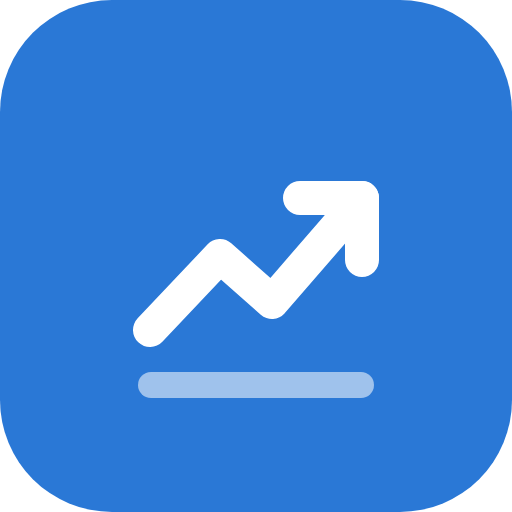
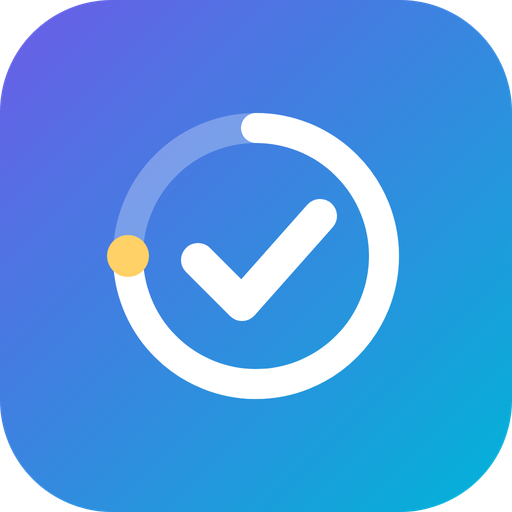
Android: виджеты и окошко для задачи и заметки, ярлыки, новый значок, подсказка о новой версии; подключение одной ссылкой

diff --git a/index.html b/index.html
@@ -938,14 +938,21 @@ const LS_KEY='moyplan.finance.v1', UI_KEY='moyplan.ui.v1', RC_KEY='moyplan.remot
    Копия данных лежит на устройстве: приложение открывается и сохраняет правки без интернета,
    а в таблицу они уходят, когда связь появится. */
 const GAS_URL_RE=/^https:\/\/script\.google\.com\/(a\/[^\/]+\/)?macros\/s\/[\w-]+\/(exec|dev)$/;
-(function(){ const m=/^#connect=([A-Za-z0-9+\/=_-]+)$/.exec(location.hash); if(!m) return;
-  try{ const [url,key]=atob(m[1].replace(/-/g,'+').replace(/_/g,'/')).split('|');
-    if(GAS_URL_RE.test(url)&&key) localStorage.setItem(RC_KEY,JSON.stringify({url,key})); }catch(e){}
+// «Ссылка для другого устройства»: …#connect=<base64 от «ссылка|ключ»>
+function parseConnect(s){ const m=/#connect=([A-Za-z0-9+\/=_-]+)/.exec(String(s||'')); if(!m) return null;
+  try{ const [url,key]=atob(m[1].replace(/-/g,'+').replace(/_/g,'/')).split('|'); return GAS_URL_RE.test(url)&&key?{url,key}:null; }catch(e){ return null; } }
+(function(){ if(!/^#connect=/.test(location.hash)) return; const rc=parseConnect(location.hash);
+  if(rc) try{ localStorage.setItem(RC_KEY,JSON.stringify(rc)); }catch(e){}
   history.replaceState(null,'',location.pathname+location.search); })();
 let REMOTE=null; if(!IS_GAS){ try{ const r=JSON.parse(localStorage.getItem(RC_KEY)||'null'); if(r&&GAS_URL_RE.test(r.url)&&r.key) REMOTE=r; }catch(e){} }
 // ярлык на значке приложения: ?action=task|expense|habit|note
 let LAUNCH=new URLSearchParams(location.search).get('action');
 if(LAUNCH) history.replaceState(null,'',location.pathname);
+/* Приложение для Android (обёртка Capacitor): window.MoyplanNative — виджеты, ярлыки, номер сборки.
+   В браузере его нет. Страница внутри приложения живёт на https://localhost, поэтому ссылки — на сайт. */
+const NATIVE=window.MoyplanNative||null;
+const SITE='https://tromb17.github.io/pep-app/';
+if(!LAUNCH&&NATIVE) try{ LAUNCH=NATIVE.takeAction()||null; }catch(e){}
 /* Вызов функции скрипта: в Google-версии — google.script.run, в отдельной — запрос по ссылке. */
 function server(fn,arg){
   if(IS_GAS) return new Promise((res,rej)=>google.script.run.withSuccessHandler(res).withFailureHandler(rej)[fn](arg));
@@ -1165,22 +1172,68 @@ window.addEventListener('online',()=>{ if(!REMOTE) return; if(isDirty()) flush()
 document.addEventListener('visibilitychange',()=>{ if(!REMOTE) return;
   if(document.hidden){ keepLocal(); if(isDirty()) flush(); }
   else if(isDirty()) flush(); else if(Date.now()-lastPull>120000) pullRemote(); });
+/* Окошко из виджета (Android) копит задачи и заметки в телефоне. Забираем их в план,
+   когда данные свежие (сразу после загрузки из таблицы), и только потом подтверждаем телефону.
+   ID записи приходит из телефона — повторно одно и то же не добавится. */
+const QUICK_FOLDER='Быстрые заметки';
+function inboxItems(){ if(!NATIVE) return []; try{ const a=JSON.parse(NATIVE.inbox()||'[]'); return Array.isArray(a)?a:[]; }catch(e){ return []; } }
+function noteTitleFrom(text){
+  const line=String(text).trim().split('\n')[0].trim(); if(line.length<=40) return line;
+  const cut=line.slice(0,40), sp=cut.lastIndexOf(' ');
+  return (sp>20?cut.slice(0,sp):cut).replace(/[\s,.;:!?—–-]+$/,'')+'…';
+}
+function applyInbox(){
+  if(!S||!NATIVE||!canSave||!document.getElementById('sheet').hidden) return;
+  const items=inboxItems(); if(!items.length) return;
+  const keys=new Set(), seen=[], isDay=v=>/^\d{4}-\d{2}-\d{2}$/.test(v||''); let nt=0, nn=0;
+  items.forEach(it=>{ if(!it||!it.id) return; seen.push(it.id); const text=String(it.text||'').trim(); if(!text) return;
+    if(it.type==='note'){ if(S.notes.some(n=>n.id===it.id)) return;
+      let f=S.noteFolders.find(x=>x.name===QUICK_FOLDER); if(!f){ f={id:uid(),name:QUICK_FOLDER}; S.noteFolders.push(f); keys.add('noteFolders'); }
+      S.notes.push({id:it.id,name:noteTitleFrom(text),body:esc(text).replace(/\n/g,'<br>'),pinned:false,updated:new Date(+it.at||Date.now()).toISOString(),folder:f.id,book:''});
+      keys.add('notes'); nn++; }
+    else { if(S.tasks.some(t=>t.id===it.id)) return;
+      const t=newTask(text); t.id=it.id; t.due=isDay(it.due)?it.due:''; if(isDay(it.created)) t.created=it.created;
+      S.tasks.push(t); keys.add('tasks'); nt++; } });
+  if(keys.size){ persist(...keys); if(REMOTE) keepLocal(); render(); }
+  try{ NATIVE.ack(JSON.stringify(seen)); }catch(e){}
+  if(nt||nn) toast('Из виджета: '+[nt?nt+' '+plural(nt,'задача','задачи','задач'):'',nn?nn+' '+plural(nn,'заметка','заметки','заметок'):''].filter(Boolean).join(', '));
+}
+// вернулись в приложение, а в окошке добавили что-то новое — сперва свежие данные, потом запись
+document.addEventListener('visibilitychange',()=>{ if(document.hidden||!NATIVE||!inboxItems().length) return;
+  if(REMOTE&&!isDirty()&&!saving){ if(Date.now()-lastPull<=120000) pullRemote(); } else applyInbox(); });
+// ярлык «Трата» / «Привычки», когда приложение уже открыто
+window.moyplanAction=()=>{ let a=null; try{ a=NATIVE&&NATIVE.takeAction(); }catch(e){} if(a&&S) launch(a); };
+
+/* Android: вышла ли новая сборка. Выпуски — в открытом репозитории pep-app (тег apk-<номер сборки>).
+   Пока не обновились, напоминаем при каждом запуске; иначе проверяем раз в 6 часов. */
+const APK_API='https://api.github.com/repos/tromb17/pep-app/releases/latest';
+function checkApk(force){
+  if(!NATIVE) return; let last=0; try{ last=+localStorage.getItem('moyplan.apkcheck')||0; }catch(e){}
+  if(!force&&Date.now()-last<6*3600e3) return;
+  fetch(APK_API,{cache:'no-store'}).then(r=>r.ok?r.json():null).then(j=>{
+    const n=j?+((/^apk-(\d+)$/.exec(j.tag_name||'')||[])[1]||0):0, have=+NATIVE.build()||0, a=j&&(j.assets||[]).find(x=>/\.apk$/i.test(x.name));
+    if(n>have&&a){ toast('Вышла новая версия приложения: 1.'+n,{label:'Скачать',fn:()=>NATIVE.openUrl(a.browser_download_url)}); return; }
+    try{ localStorage.setItem('moyplan.apkcheck',String(Date.now())); }catch(e){}
+    if(force) toast(j?'У вас последняя версия':'Не удалось проверить — нет связи с GitHub');
+  }).catch(()=>{ if(force) toast('Не удалось проверить — нет связи с GitHub'); });
+}
+
 /* Свежие данные из таблицы. Пока здесь есть неотправленные правки или открыто окно — своё не затираем. */
 function pullRemote(){
   if(!REMOTE) return Promise.resolve();
   return server('loadState').then(json=>{
     lastPull=Date.now();
-    if(isDirty()||saving) return;
+    if(isDirty()||saving){ applyInbox(); return; }
     if(S&&!document.getElementById('sheet').hidden){ setTimeout(pullRemote,5000); return; }
     let d=null; try{ d=json?JSON.parse(json):null; }catch(e){}
     canSave=true;
     if(d){ const [o,mig]=normalize(d), same=S&&JSON.stringify(o)===JSON.stringify(S); S=o; keepLocal();
-      setSync('ok','Загружено из Google Таблицы'); if(!same) render(); if(mig) persist(); }
+      setSync('ok','Загружено из Google Таблицы'); if(!same) render(); if(mig) persist(); applyInbox(); }
     else { if(!S) S=normalize(DEFAULT_DATA)[0]; render(); persist(); toast('Таблица была пустой — отправил в неё данные с этого устройства'); }
   }, err=>{
     if(!S){ canSave=false; S=normalize(DEFAULT_DATA)[0]; render();
       setSync('err','Нет связи с таблицей — правки не сохранятся'); toast('Не удалось загрузить: '+errText(err)); }
-    else setSync('pending','Нет связи с таблицей — работаю с копией в телефоне');
+    else { setSync('pending','Нет связи с таблицей — работаю с копией в телефоне'); applyInbox(); }
   });
 }
 
@@ -1203,7 +1256,7 @@ function boot(){
     else pullRemote();
   } else {
     let d=null; try{ const s=localStorage.getItem(LS_KEY); d=s?JSON.parse(s):null; }catch(e){}
-    const [o,mig]=normalize(d||DEFAULT_DATA); S=o; setSync('ok',d?'Данные из этого браузера':'Новый план'); render(); if(d&&mig) persist();
+    const [o,mig]=normalize(d||DEFAULT_DATA); S=o; setSync('ok',d?'Данные из этого браузера':'Новый план'); render(); if(d&&mig) persist(); applyInbox();
   }
 }
 
@@ -3462,12 +3515,13 @@ function storageBox(){
   if(REMOTE) return `<div class="field"><label>Где хранятся данные</label><div class="hint" style="margin:0">В Google Таблице через скрипт. Копия лежит на этом устройстве: без интернета приложение работает, правки уйдут в таблицу, когда появится связь.</div>
     <div class="actions" style="margin-top:6px"><button class="btn small" data-act="rcPull">Обновить из таблицы</button><button class="btn small" data-act="rcLink">Ссылка для другого устройства</button><span class="sp"></span><button class="btn small danger" data-act="rcOff">Отключить</button></div></div>`;
   return `<div class="field"><label>Где хранятся данные</label><div class="hint" style="margin:0">Сейчас — только в этом браузере. Подключите Google Таблицу, чтобы данные были на всех устройствах (см. инструкцию).</div></div>
-    <div class="field"><label>Ссылка на скрипт</label><input id="rcUrl" inputmode="url" autocomplete="off" spellcheck="false" placeholder="https://script.google.com/macros/s/…/exec"></div>
+    <div class="field"><label>Ссылка на скрипт</label><input id="rcUrl" inputmode="url" autocomplete="off" spellcheck="false" placeholder="https://script.google.com/macros/s/…/exec"><div class="hint" style="margin:4px 0 0">Или вставьте сюда «Ссылку для другого устройства» — ключ тогда не нужен.</div></div>
     <div class="field"><label>Ключ доступа</label><input id="rcKey" autocomplete="off" spellcheck="false" placeholder="из журнала функции createApiKey"></div>
     <div class="actions" style="margin-top:0"><button class="btn small primary" data-act="rcConnect">Подключить таблицу</button></div>`;
 }
 async function rcConnect(){
-  const url=(document.getElementById('rcUrl').value||'').trim(), key=(document.getElementById('rcKey').value||'').trim();
+  let url=(document.getElementById('rcUrl').value||'').trim(), key=(document.getElementById('rcKey').value||'').trim();
+  const rc=parseConnect(url); if(rc){ url=rc.url; key=rc.key; }
   if(!GAS_URL_RE.test(url)){ toast('Нужна ссылка вида https://script.google.com/macros/s/…/exec'); return; }
   if(key.length<20){ toast('Ключ слишком короткий — скопируйте его целиком'); return; }
   toast('Проверяю связь…'); server.rc={url,key};
@@ -3486,6 +3540,7 @@ function openSettings(){
     ${storageBox()}
     <div class="field"><label>Резервная копия (JSON)</label><textarea id="jsonBox" spellcheck="false" placeholder="Нажмите «Выгрузить» или вставьте сюда копию и нажмите «Загрузить»"></textarea></div>
     <div class="actions" style="margin-top:0"><button class="btn small" data-act="export">Выгрузить</button><button class="btn small" data-act="copy">Скопировать</button><button class="btn small" data-act="import">Загрузить</button></div>
+    ${NATIVE?`<div class="field"><label>Приложение</label><div class="actions" style="margin:0"><span class="hint" style="margin:0">Версия 1.${esc(String(NATIVE.build()))}</span><span class="sp"></span><button class="btn small" data-act="apkCheck">Проверить обновления</button></div></div>`:''}
     <div class="field"><label>Тема</label><div class="seg">${[['','Как в системе'],['light','Светлая'],['dark','Тёмная']].map(([v,l])=>`<button class="${(document.documentElement.dataset.theme||'')===v?'on':''}" data-act="theme" data-v="${v}">${l}</button>`).join('')}</div></div>
     </div><div class="actions"><span class="sp"></span><button class="btn primary" data-act="sheetClose">Готово</button></div>`);
 }
@@ -4019,8 +4074,9 @@ document.addEventListener('click',e=>{
     if(!d||!Array.isArray(d.items)){ toast('В копии нет списка статей'); return; }
     if(!confirm('Заменить все текущие данные копией?')) return; S=normalize(d)[0]; closeSheet(); persist(); render(); toast('Загружено'); }
   else if(a==='rcConnect'){ rcConnect(); }
+  else if(a==='apkCheck'){ checkApk(true); }
   else if(a==='rcPull'){ if(isDirty()){ flush(); toast('Сначала отправляю свои правки'); return; } closeSheet(); setSync('pending','Загружаю из таблицы…'); pullRemote().then(()=>toast('Обновлено')); }
-  else if(a==='rcLink'){ const link=location.origin+location.pathname+'#connect='+btoa(REMOTE.url+'|'+REMOTE.key);
+  else if(a==='rcLink'){ const link=(NATIVE||!/^https:/.test(location.href)?SITE:location.origin+location.pathname)+'#connect='+btoa(REMOTE.url+'|'+REMOTE.key);
     try{ navigator.clipboard.writeText(link).then(()=>toast('Ссылка скопирована. В ней ключ — отправляйте только себе'),()=>prompt('Ссылка для другого устройства (в ней ключ):',link)); }catch(err){ prompt('Ссылка для другого устройства (в ней ключ):',link); } }
   else if(a==='rcOff'){ if(!confirm('Отключить Google Таблицу на этом устройстве? Данные останутся в таблице, а здесь — их копия.')) return;
     if(isDirty()&&!confirm('Часть правок ещё не дошла до таблицы и останется только здесь. Всё равно отключить?')) return;
@@ -4034,7 +4090,8 @@ document.addEventListener('click',e=>{
 try{ const t=localStorage.getItem('moyplan.theme'); if(t) document.documentElement.dataset.theme=t; }catch(e){}
 
 boot();
-if(!IS_GAS&&'serviceWorker' in navigator&&/^(https:|http:\/\/localhost)/.test(location.href)) navigator.serviceWorker.register('sw.js').catch(()=>{});
+if(!IS_GAS&&!NATIVE&&'serviceWorker' in navigator&&/^(https:|http:\/\/localhost)/.test(location.href)) navigator.serviceWorker.register('sw.js').catch(()=>{});
+if(NATIVE){ if('serviceWorker' in navigator) navigator.serviceWorker.getRegistrations().then(rs=>rs.forEach(r=>r.unregister())).catch(()=>{}); setTimeout(()=>checkApk(),4000); }
 </script>
 </body>
 </html>
